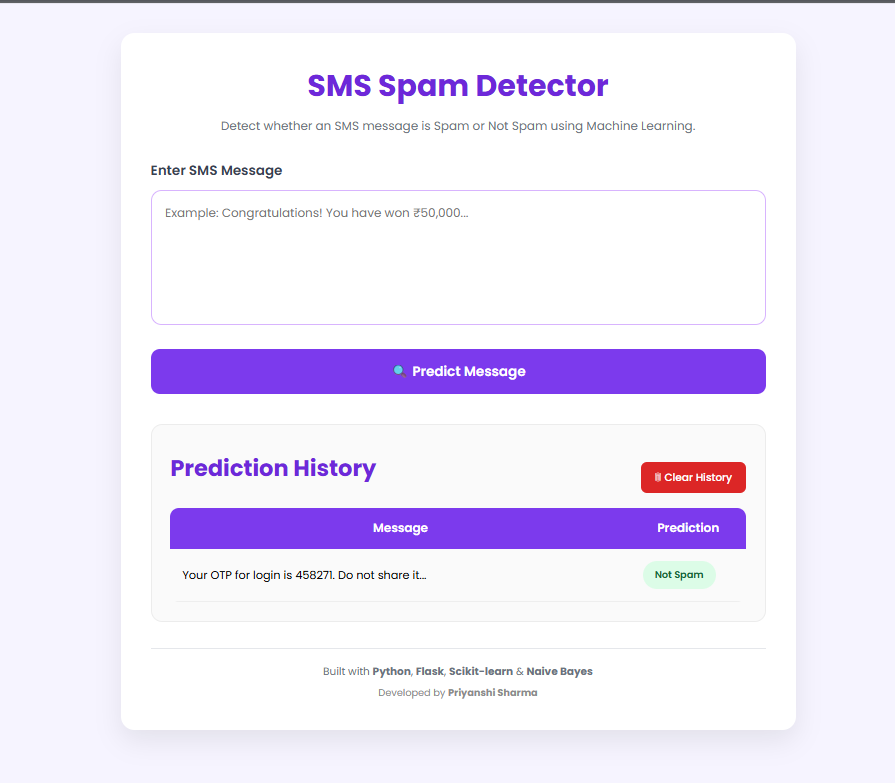
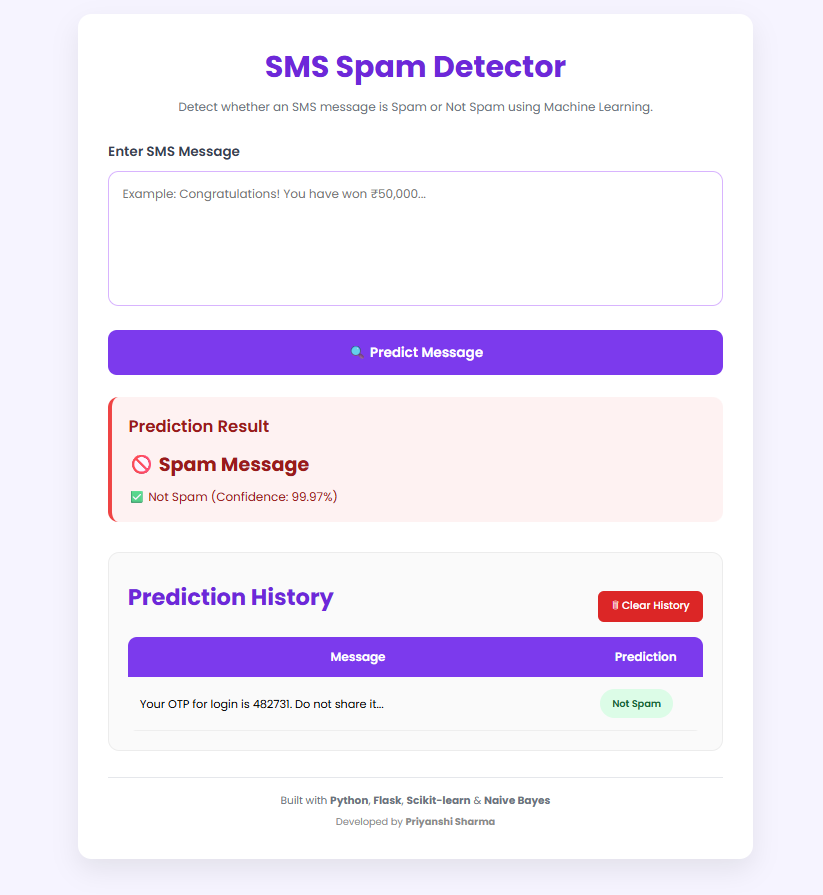
Updated README

diff --git a/README.md b/README.md
@@ -1,36 +1,16 @@
 # 📧 SMS Spam Detector
 
-A simple Machine Learning web application that detects whether an SMS message is **Spam** or **Not Spam** using the **Naive Bayes** algorithm.
+A Machine Learning based web application that classifies SMS messages as **Spam** or **Not Spam** using the **Naive Bayes** algorithm.
 
-The project is developed using **Python, Flask, Scikit-learn, HTML and CSS**. It provides a clean web interface where users can enter any SMS message and instantly receive the prediction along with the confidence score.
-
----
-
-## 📸 Screenshots
-
-### 🏠 Home Page
-
-<p align="center">
-  <img src="screenshots/home.png" alt="Home Page" width="850">
-</p>
-
----
-
-### 📊 Prediction Result
-
-<p align="center">
-  <img src="screenshots/prediction.png" alt="Prediction Result" width="850">
-</p>
+The application is built using **Python, Flask, Scikit-learn, HTML and CSS**. It allows users to enter an SMS message and instantly receive a prediction along with the confidence score. It also stores recent predictions so that users can review previous results.
 
 ---
 
 # 📖 About the Project
 
-Spam messages are one of the most common forms of unwanted communication. This project aims to automatically classify SMS messages as **Spam** or **Not Spam** using Machine Learning.
+Spam messages are one of the most common forms of unwanted communication. Identifying them manually is not always easy, especially when large numbers of messages are received.
 
-The application uses the **Naive Bayes Classifier**, which is widely used for text classification problems. Before prediction, the message is cleaned and converted into numerical features using **CountVectorizer**. The trained model then predicts the category of the message and displays the result with a confidence score.
-
-The application also keeps a history of recent predictions, making it easier to review previous results.
+This project uses a Machine Learning model to automatically classify SMS messages as **Spam** or **Not Spam**. Before prediction, the message is cleaned and converted into numerical features using **CountVectorizer**. The trained **Naive Bayes** model then predicts the category of the message and displays the result on a simple web interface.
 
 ---
 
@@ -40,7 +20,7 @@ The application also keeps a history of recent predictions, making it easier to 
 - Displays prediction confidence score
 - Stores recent prediction history
 - Clear History option
-- Simple and responsive web interface
+- Simple and responsive user interface
 - Fast prediction using a trained Machine Learning model
 
 ---
@@ -52,12 +32,38 @@ The application also keeps a history of recent predictions, making it easier to 
 | Python | Programming Language |
 | Flask | Backend Web Framework |
 | Scikit-learn | Machine Learning |
-| Pandas | Data Handling |
+| Pandas | Data Processing |
 | NumPy | Numerical Operations |
-| Joblib | Model Saving & Loading |
+| Joblib | Saving & Loading Model |
 | HTML5 | Frontend |
 | CSS3 | Styling |
 | Naive Bayes | Classification Algorithm |
+
+---
+
+# 📸 Project Screenshots
+
+## 🏠 Home Page
+
+<p align="center">
+<img src="screenshots/home.png" alt="Home Page" width="900">
+</p>
+
+---
+
+## 📊 Prediction Result
+
+<p align="center">
+<img src="screenshots/prediction.png" alt="Prediction Result" width="900">
+</p>
+
+---
+
+## 📜 Prediction History
+
+<p align="center">
+<img src="screenshots/history.png" alt="Prediction History" width="900">
+</p>
 
 ---
 
@@ -75,7 +81,8 @@ sms-spam-detector
 │
 ├── screenshots/
 │   ├── home.png
-│   └── prediction.png
+│   ├── prediction.png
+│   └── history.png
 │
 ├── templates/
 │   └── index.html
@@ -90,14 +97,14 @@ sms-spam-detector
 
 ---
 
-# ⚙️ How It Works
+# ⚙️ Working of the Project
 
 1. The user enters an SMS message.
-2. The message is preprocessed by removing unnecessary characters.
+2. The message is cleaned during preprocessing.
 3. The cleaned text is converted into numerical features using **CountVectorizer**.
 4. The trained **Naive Bayes** model predicts whether the message is Spam or Not Spam.
 5. The prediction result and confidence score are displayed.
-6. The prediction is stored in the recent history section.
+6. The prediction is saved in the recent history section.
 
 ---
 
@@ -109,7 +116,7 @@ sms-spam-detector
 git clone https://github.com/priyanshi1009/sms-spam-detector.git
 ```
 
-### Move into the Project Folder
+### Move to the Project Folder
 
 ```bash
 cd sms-spam-detector
@@ -143,7 +150,7 @@ python app.py
 
 Open your browser and visit:
 
-```
+```text
 http://127.0.0.1:5000
 ```
 
@@ -164,37 +171,37 @@ http://127.0.0.1:5000
 
 | SMS Message | Prediction |
 |-------------|------------|
-| Hi, are you coming to college today? | ✅ Not Spam |
-| Your OTP is 458271. Do not share it. | ✅ Not Spam |
+| Hi, are you coming to college tomorrow? | ✅ Not Spam |
+| Your OTP is 482731. Do not share it with anyone. | ✅ Not Spam |
 | Congratulations! You have won ₹50,000. | 🚫 Spam |
 | FREE entry into our lucky draw! | 🚫 Spam |
 
 ---
 
-# 🔮 Future Scope
+# 🔮 Future Improvements
 
-The project can be improved further by adding:
+Some features that can be added in the future include:
 
-- Email spam detection
-- Support for multiple languages
-- User authentication
-- Database integration
-- Cloud deployment
-- Mobile-friendly interface
-- Deep Learning based text classification
+- Email Spam Detection
+- Multi-language Support
+- User Authentication
+- Database Integration
+- Cloud Deployment
+- Mobile Responsive Design
+- Deep Learning based Text Classification
 
 ---
 
 # 📚 Learning Outcomes
 
-While working on this project, I learned about:
+This project helped me understand:
 
 - Text preprocessing
 - Feature extraction using CountVectorizer
 - Naive Bayes Classification
-- Model training and evaluation
+- Machine Learning workflow
 - Flask web development
-- Git and GitHub workflow
+- Git and GitHub
 - Building an end-to-end Machine Learning application
 
 ---
@@ -205,18 +212,18 @@ While working on this project, I learned about:
 
 B.Tech Student
 
-GitHub Profile:  
-🔗 **https://github.com/priyanshi1009**
+**GitHub Profile:**  
+https://github.com/priyanshi1009
 
-Project Repository:  
-🔗 **https://github.com/priyanshi1009/sms-spam-detector**
-
----
-
-## 🙏 Acknowledgement
-
-The SMS Spam Collection Dataset used in this project is a publicly available dataset commonly used for text classification and spam detection tasks.
+**Project Repository:**  
+https://github.com/priyanshi1009/sms-spam-detector
 
 ---
 
-⭐ *Thank you for visiting this project!*
+# 🙏 Acknowledgement
+
+The SMS Spam Collection Dataset used in this project is a publicly available dataset that is widely used for learning and research in text classification.
+
+---
+
+⭐ Thank you for taking the time to explore this project.